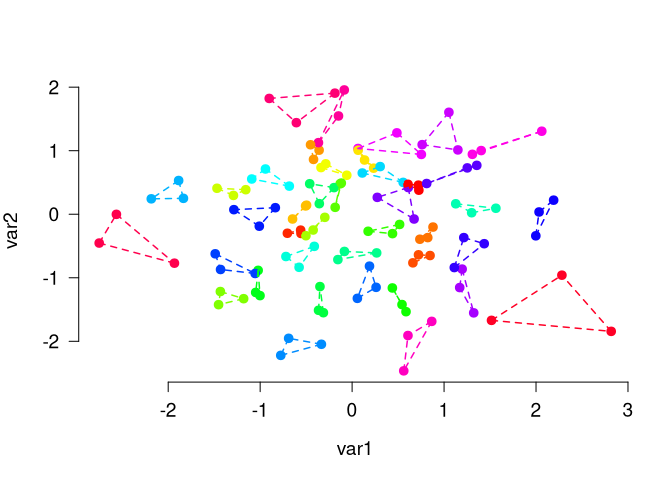
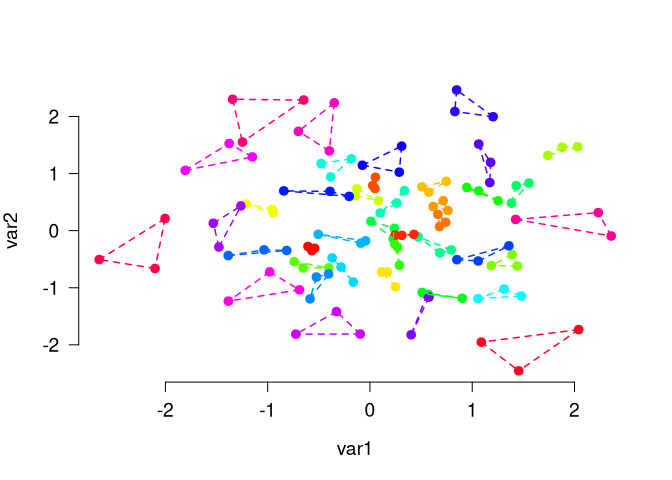
new version

diff --git a/README.md b/README.md
@@ -79,11 +79,11 @@ create three similar sets of plants using the classical iris data set:
     # The output is a vector that assigns a group (i.e, a number
     # between 1 and K) to each input element:
     anticlusters
-    #>   [1] 3 2 2 1 3 2 1 3 3 3 3 3 2 1 2 1 1 3 2 1 3 1 1 3 2 2 3 3 3 3 2 2 1 2 3 3 2
-    #>  [38] 1 1 3 1 2 1 1 1 3 2 1 3 2 2 2 2 2 3 3 3 1 2 1 2 2 1 1 2 2 2 3 1 1 2 2 3 1
-    #>  [75] 1 1 2 3 1 1 1 3 1 3 2 1 1 1 2 3 3 1 2 3 2 2 2 2 2 2 2 1 2 2 2 3 3 3 1 1 3
-    #> [112] 3 2 2 2 2 1 2 1 1 2 3 3 3 1 1 1 1 1 1 1 3 3 2 2 3 3 3 1 3 3 1 3 3 3 1 3 2
-    #> [149] 1 3
+    #>   [1] 2 1 2 2 2 1 2 1 1 3 1 2 1 3 3 1 2 2 1 2 3 1 3 2 1 1 1 3 1 1 3 1 3 3 1 2 3
+    #>  [38] 3 2 1 2 2 2 2 2 2 3 3 3 3 3 1 1 1 2 1 3 2 2 1 3 3 3 1 1 3 3 1 2 3 3 2 2 3
+    #>  [75] 3 2 2 1 3 3 1 1 1 3 2 2 2 3 2 1 2 3 3 3 2 3 1 1 1 2 1 1 2 2 2 1 3 1 1 2 1
+    #> [112] 3 1 1 3 3 2 3 1 2 3 1 2 3 3 2 1 2 3 2 2 1 2 3 2 3 1 3 3 1 2 3 3 1 2 2 3 1
+    #> [149] 2 1
 
     # Each group has the same number of items:
     table(anticlusters)
@@ -103,7 +103,7 @@ create three similar sets of plants using the classical iris data set:
     #> ------------------------------------------------------------ 
     #> anticlusters: 3
     #> Sepal.Length  Sepal.Width Petal.Length  Petal.Width 
-    #>         5.85         3.06         3.76         1.20
+    #>         5.84         3.06         3.76         1.20
 
 As illustrated in the example, we can use the function
 `anticlustering()` to create similar sets of elements. In this case

diff --git a/NEWS.md b/NEWS.md
@@ -1,3 +1,7 @@
+# anticlust 0.5.6-1
+
+- Minor bug fix in `plot_clusters()` (via [87f585798] (https://github.com/m-Py/anticlust/commit/87f5857986d16b338827a213ea0e95dda8e86eef))
+
 # anticlust 0.5.6
 
 ### User-visible changes
